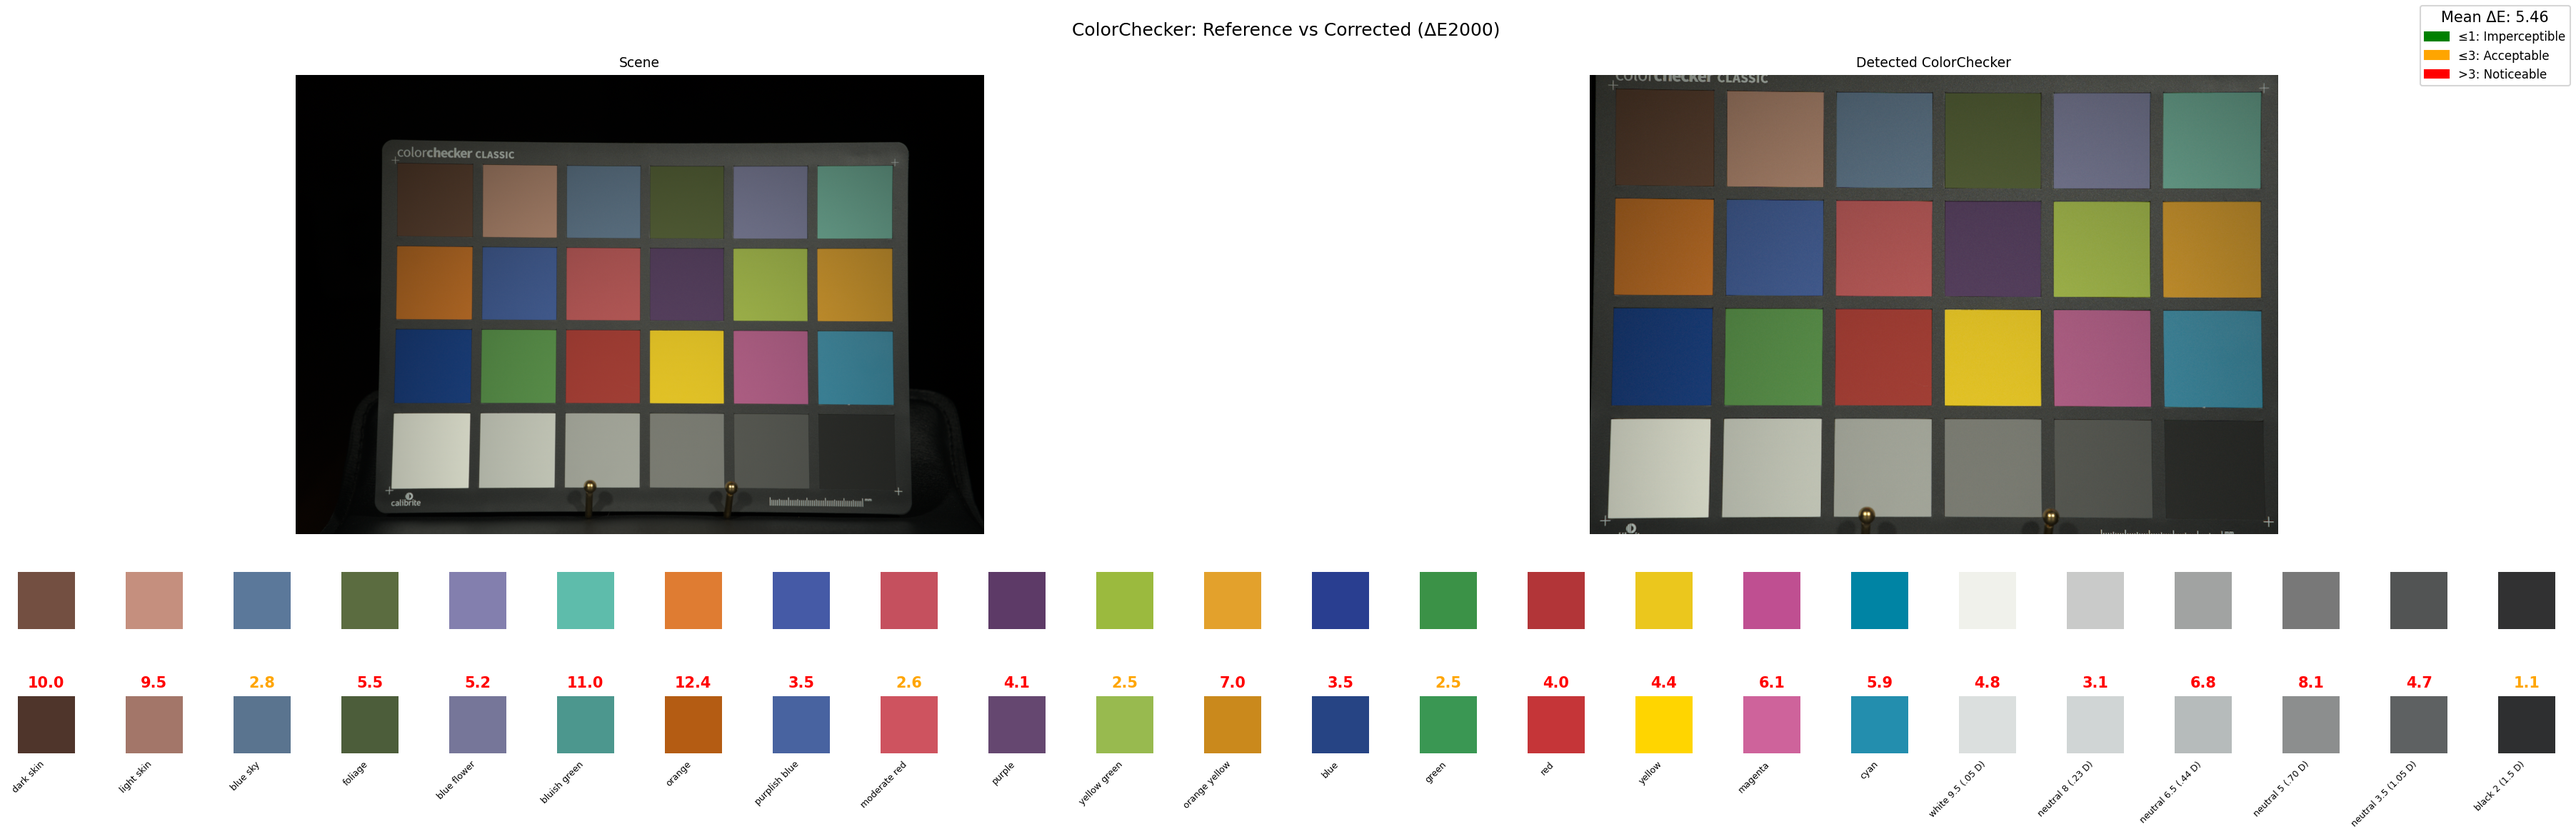
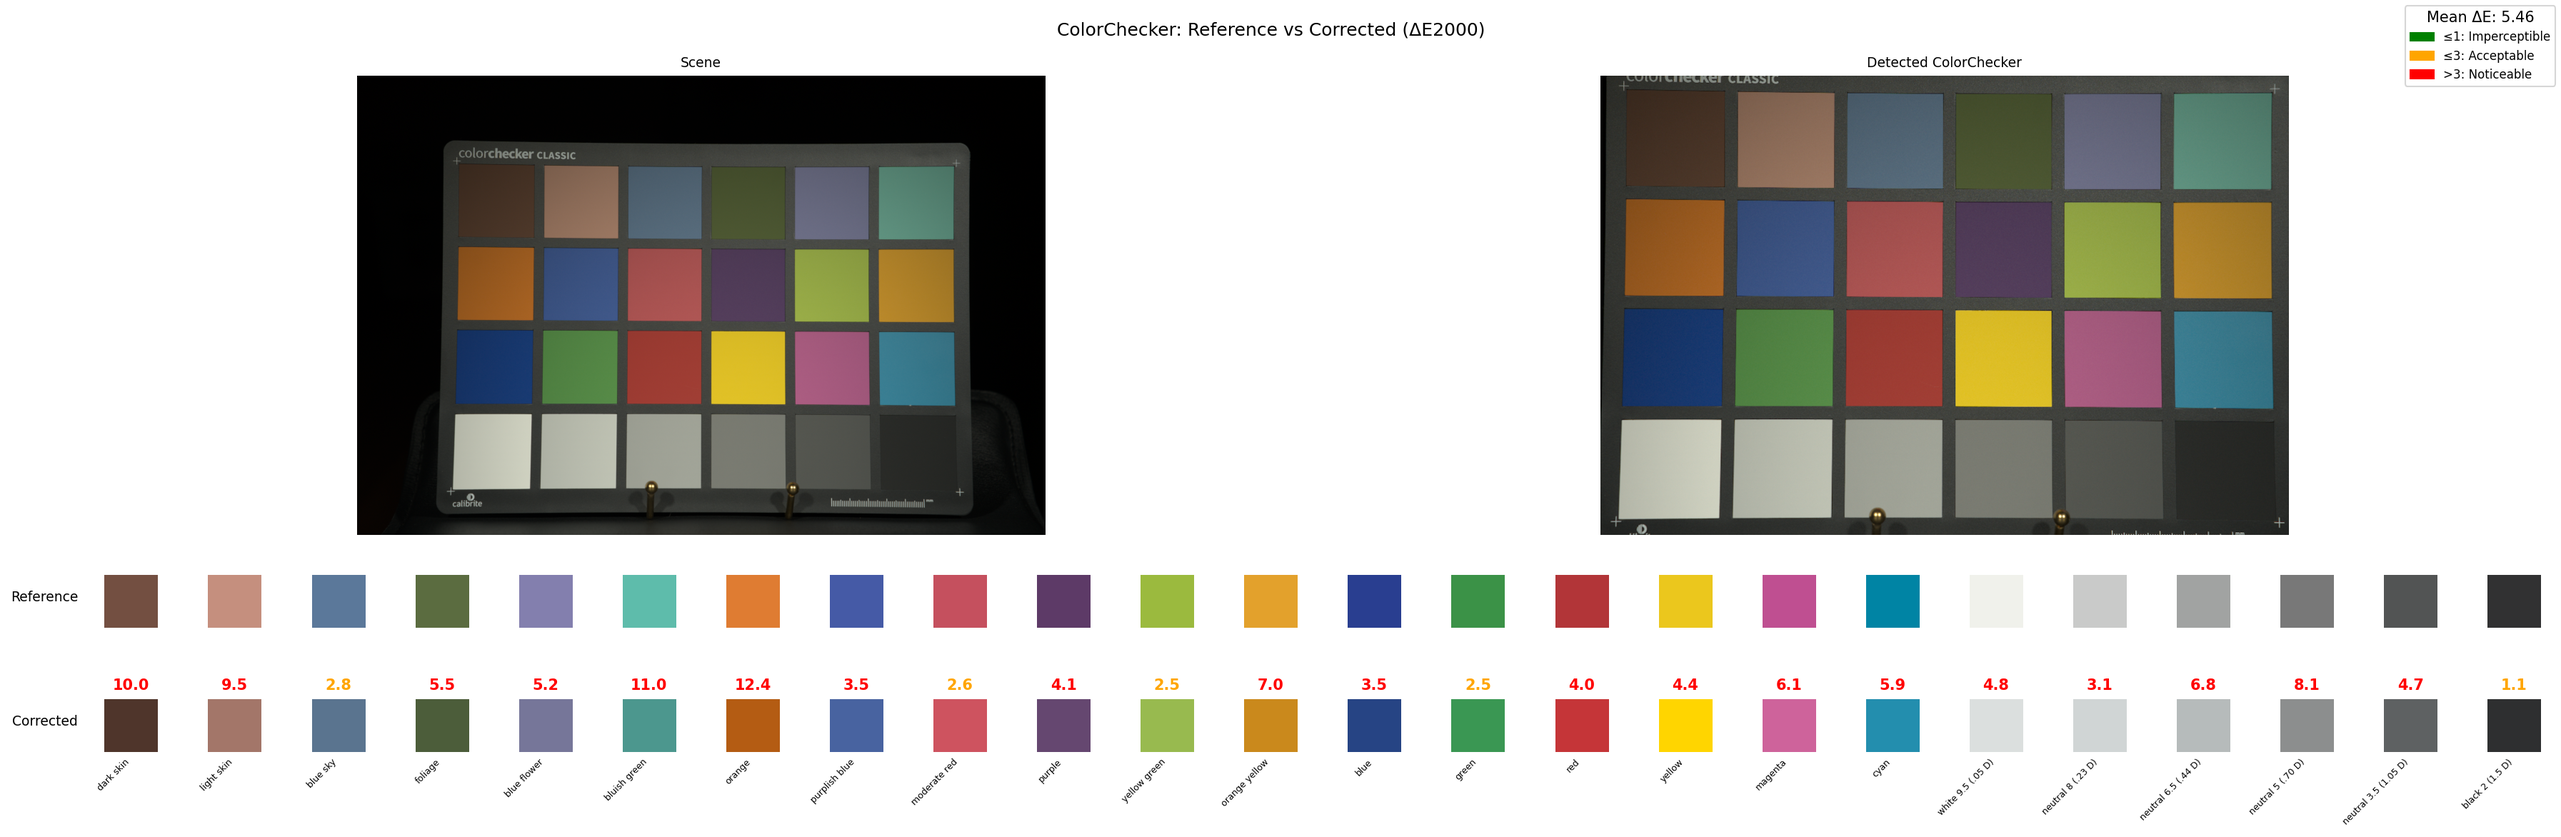
Add summary stat Fixes #15 label rows Fixes #16

diff --git a/main.py b/main.py
@@ -179,8 +179,8 @@ def visualize_swatches(image, checker_crop, RGB_reference, RGB_corrected, delta_
 
 
     # label the rows and show
-    axes[0, 0].set_ylabel('Reference', fontsize=9)
-    axes[1, 0].set_ylabel('Corrected', fontsize=9)
+    axes[0, 0].text(-0.5, 0.5, 'Reference', transform=axes[0, 0].transAxes, fontsize=9, ha='right')
+    axes[1, 0].text(-0.5, 0.5,'Corrected', transform=axes[1, 0].transAxes, fontsize=9, ha='right')
     plt.suptitle('ColorChecker: Reference vs Corrected (ΔE2000)')
     plt.tight_layout()
 
